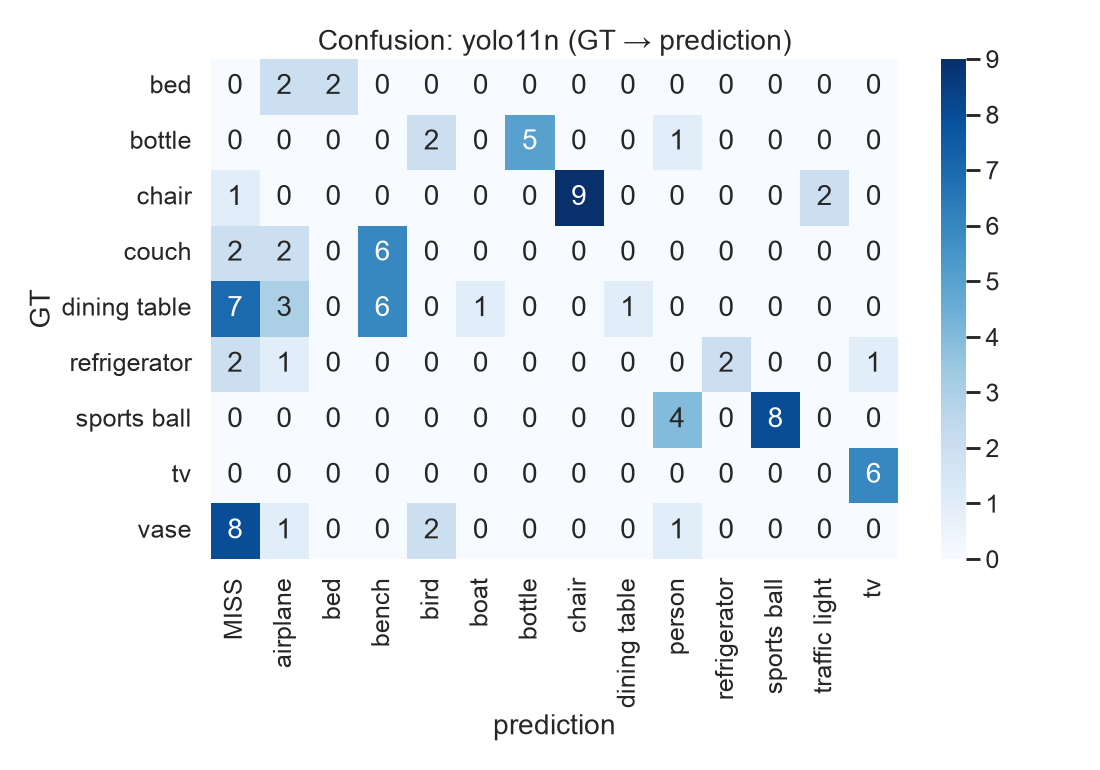
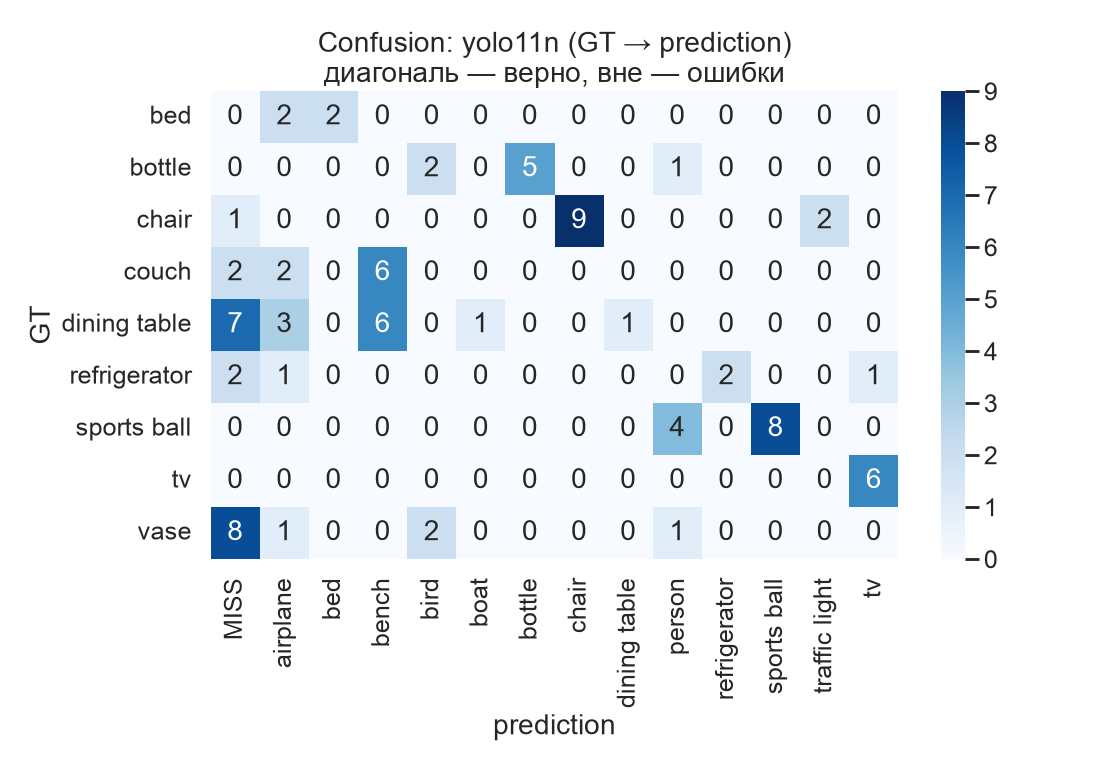
docs: подписать направление метрик на графиках EDA
В заголовки графиков, отчёт, контактные листы и PR-кривые добавлены
пометки «меньше/больше — лучше» и правило чтения confusion.

diff --git a/data/gazebo/exp/eda.py b/data/gazebo/exp/eda.py
@@ -92,6 +92,11 @@ def main():
     report.append("# EDA: Gazebo-бенчмарк YOLO\n")
     report.append(f"Сгенерировано: {datetime.now().isoformat(timespec='seconds')}\n")
     report.append(f"Каталог данных: `{base}`\n")
+    report.append("## Как читать метрики\n")
+    report.append("- **T, RSS, ECE, gap, FP/FN** — меньше лучше.\n")
+    report.append("- **mAP, AP, F1, recall, IoU, confidence TP** — больше лучше.\n")
+    report.append("- **Confusion**: диагональ — верные, вне диагонали — ошибки.\n")
+    report.append("- **Detections by view** — справочно, не метрика качества.\n")
 
     # ---------- 1. Обзор ----------
     report.append("## 1. Обзор данных\n")
@@ -134,11 +139,11 @@ def main():
     agg["fps"] = 1000.0 / agg["T_p50"]
     agg.to_csv(os.path.join(tables, "latency_resources.csv"), index=False)
     report.append(md(agg.round(3)))
-    report.append("")
+    report.append("T — меньше лучше; fps — больше лучше.\n")
 
     fig, ax = plt.subplots(figsize=(10, 5))
     sns.boxplot(data=frames, x="model", y="T_total_ms", ax=ax)
-    ax.set_title("T_total по моделям (48 кадров)")
+    ax.set_title("T_total по моделям (48 кадров)\nменьше — лучше")
     ax.set_xlabel("")
     ax.set_ylabel("T_total, мс")
     fig.tight_layout()
@@ -149,7 +154,7 @@ def main():
     m = agg.melt(id_vars="model", value_vars=["T_p50", "T_p95", "T_p99"],
                  var_name="percentile", value_name="ms")
     sns.barplot(data=m, x="model", y="ms", hue="percentile", ax=ax)
-    ax.set_title("Перцентили задержки")
+    ax.set_title("Перцентили задержки\nменьше — лучше")
     ax.set_xlabel("")
     fig.tight_layout()
     fig.savefig(os.path.join(plots, "latency_percentiles.png"))
@@ -159,7 +164,7 @@ def main():
     parts = agg.melt(id_vars="model", value_vars=["pre", "infer", "post"],
                      var_name="stage", value_name="ms")
     sns.barplot(data=parts, x="model", y="ms", hue="stage", ax=ax)
-    ax.set_title("Среднее время по стадиям")
+    ax.set_title("Среднее время по стадиям\nменьше — лучше")
     ax.set_xlabel("")
     fig.tight_layout()
     fig.savefig(os.path.join(plots, "latency_parts.png"))
@@ -167,7 +172,7 @@ def main():
 
     fig, ax = plt.subplots(figsize=(9, 5))
     sns.scatterplot(data=frames, x="cpu_pct", y="T_total_ms", hue="model", alpha=0.6, ax=ax)
-    ax.set_title("T_total vs загрузка CPU")
+    ax.set_title("T_total vs загрузка CPU\nT — меньше лучше; CPU — справочно")
     fig.tight_layout()
     fig.savefig(os.path.join(plots, "latency_vs_cpu.png"))
     plt.close(fig)
@@ -176,7 +181,7 @@ def main():
                                aggfunc="median", observed=True)
     fig, ax = plt.subplots(figsize=(8, 16))
     sns.heatmap(pivot, cmap="viridis", ax=ax, cbar_kws={"label": "T_total, мс"})
-    ax.set_title("Медиана T_total по ракурсам")
+    ax.set_title("Медиана T_total по ракурсам\nменьше — лучше")
     fig.tight_layout()
     fig.savefig(os.path.join(plots, "latency_by_view.png"))
     plt.close(fig)
@@ -212,13 +217,13 @@ def main():
         qual = pd.DataFrame(quality)
         qual.to_csv(os.path.join(tables, "quality.csv"), index=False)
         report.append(md(qual.round(3)))
-        report.append("")
+        report.append("TP — больше, FP/FN — меньше.\n")
 
         fig, ax = plt.subplots(figsize=(10, 5))
         qm = qual.melt(id_vars="model", value_vars=["tp", "fp", "fn"],
                        var_name="type", value_name="count")
         sns.barplot(data=qm, x="model", y="count", hue="type", ax=ax)
-        ax.set_title("TP / FP / FN при conf 0.05")
+        ax.set_title("TP / FP / FN при conf 0.05\nTP ↑, FP/FN ↓")
         ax.set_xlabel("")
         fig.tight_layout()
         fig.savefig(os.path.join(plots, "quality_tp_fp_fn.png"))
@@ -227,7 +232,7 @@ def main():
         fig, ax = plt.subplots(figsize=(10, 5))
         sns.histplot(data=dets[dets["tp"] == 1], x="conf", hue="model",
                      bins=20, element="step", fill=False, ax=ax)
-        ax.set_title("Уверенность истинных детекций")
+        ax.set_title("Уверенность истинных детекций\nбольше — лучше")
         fig.tight_layout()
         fig.savefig(os.path.join(plots, "confidence_tp.png"))
         plt.close(fig)
@@ -235,7 +240,7 @@ def main():
         fig, ax = plt.subplots(figsize=(10, 5))
         sns.histplot(data=dets, x="best_iou", hue="tp", bins=20,
                      element="step", fill=False, ax=ax)
-        ax.set_title("IoU лучшего GT для детекций")
+        ax.set_title("IoU лучшего GT для детекций\nбольше — лучше")
         fig.tight_layout()
         fig.savefig(os.path.join(plots, "iou_distribution.png"))
         plt.close(fig)
@@ -244,7 +249,7 @@ def main():
                                  aggfunc="count", observed=True, fill_value=0)
         fig, ax = plt.subplots(figsize=(8, 16))
         sns.heatmap(pivot, cmap="magma", ax=ax, cbar_kws={"label": "детекций"})
-        ax.set_title("Число детекций по ракурсам")
+        ax.set_title("Число детекций по ракурсам\nсправочно, больше ≠ лучше")
         fig.tight_layout()
         fig.savefig(os.path.join(plots, "detections_by_view.png"))
         plt.close(fig)
@@ -270,11 +275,11 @@ def main():
         pc.to_csv(os.path.join(tables, "per_class.csv"), index=False)
         report.append("### AP и детекции по классам\n")
         report.append(md(pc.round(3)))
-        report.append("")
+        report.append("AP — больше лучше.\n")
 
         fig, ax = plt.subplots(figsize=(14, 6))
         sns.barplot(data=pc, x="class", y="ap50", hue="model", ax=ax)
-        ax.set_title("AP@0.5 по классам")
+        ax.set_title("AP@0.5 по классам\nбольше — лучше")
         ax.set_xlabel("")
         ax.tick_params(axis="x", rotation=30)
         fig.tight_layout()
@@ -309,7 +314,7 @@ def main():
             best_rows.append({"model": model, "best_conf": df.loc[i, "conf"],
                               "best_f1": df.loc[i, "f1"], "p": df.loc[i, "precision"],
                               "r": df.loc[i, "recall"]})
-        ax.set_title("F1 vs confidence")
+        ax.set_title("F1 vs confidence\nбольше — лучше")
         ax.set_xlabel("confidence")
         ax.set_ylabel("F1")
         ax.legend()
@@ -319,7 +324,7 @@ def main():
         best_f1_df = pd.DataFrame(best_rows).sort_values("best_f1", ascending=False)
         best_f1_df.to_csv(os.path.join(tables, "f1_best.csv"), index=False)
         report.append(md(best_f1_df.round(3)))
-        report.append("")
+        report.append("F1 — больше лучше.\n")
 
     # ---------- 5. Confusion ----------
     conf_files = sorted(glob.glob(os.path.join(base, "confusion_*.json")))
@@ -338,7 +343,7 @@ def main():
         mat.to_csv(os.path.join(tables, f"confusion_{model}.csv"))
         fig, ax = plt.subplots(figsize=(10, 7))
         sns.heatmap(mat, annot=True, fmt="d", cmap="Blues", ax=ax)
-        ax.set_title(f"Confusion: {model} (GT → prediction)")
+        ax.set_title(f"Confusion: {model} (GT → prediction)\nдиагональ — верно, вне — ошибки")
         ax.set_xlabel("prediction")
         ax.set_ylabel("GT")
         fig.tight_layout()
@@ -355,9 +360,10 @@ def main():
         r.to_csv(os.path.join(tables, "rss.csv"), index=False)
         report.append("### Пиковый RSS\n")
         report.append(md(r.round(1)))
+        report.append("RSS — меньше лучше.\n")
         fig, ax = plt.subplots(figsize=(10, 5))
         sns.barplot(data=r, x="model", y="peak_mb", ax=ax)
-        ax.set_title("Пиковый RSS процесса")
+        ax.set_title("Пиковый RSS процесса\nменьше — лучше")
         ax.set_xlabel("")
         ax.set_ylabel("МБ")
         fig.tight_layout()
@@ -367,6 +373,7 @@ def main():
     if ros:
         report.append("### ROS\n")
         report.append(md(pd.DataFrame([ros])))
+        report.append("gap — меньше лучше; rate — больше лучше.\n")
         bag = ros.get("bag", "")
         if bag and not os.path.exists(bag):
             alt = os.path.join(base, "rosbag_det", os.path.basename(bag))
@@ -380,7 +387,7 @@ def main():
                     gaps = np.diff(ts) / 1e6  # ns -> ms
                     fig, ax = plt.subplots(figsize=(9, 5))
                     sns.histplot(gaps, bins=30, ax=ax)
-                    ax.set_title("Интервалы между /detections (bag)")
+                    ax.set_title("Интервалы между /detections (bag)\nменьше — лучше")
                     ax.set_xlabel("мс")
                     fig.tight_layout()
                     fig.savefig(os.path.join(plots, "ros_gaps.png"))

diff --git a/data/gazebo/exp/analyze.py b/data/gazebo/exp/analyze.py
@@ -97,12 +97,15 @@ def sheet(model):
     views = sorted(f[:-4] for f in os.listdir(d) if f.endswith(".png"))
     cols, rows = 8, 6
     tw, th = 320, 240
-    canvas = np.full((rows * (th + 18), cols * tw, 3), 255, np.uint8)
+    canvas = np.full((rows * (th + 18) + 22, cols * tw, 3), 255, np.uint8)
+    cv2.putText(canvas,
+                "зелёный — детекция (класс, %); жёлтый — GT; TP = IoU>=0.5 и класс совпал",
+                (8, 15), cv2.FONT_HERSHEY_SIMPLEX, 0.45, (0, 0, 0), 1, cv2.LINE_AA)
     for i, v in enumerate(views):
         im = cv2.imread(os.path.join(d, v + ".png"))
         im = cv2.resize(im, (tw, th))
         r, c = divmod(i, cols)
-        y0, x0 = r * (th + 18), c * tw
+        y0, x0 = 22 + r * (th + 18), c * tw
         canvas[y0:y0 + th, x0:x0 + tw] = im
         cv2.putText(canvas, v, (x0 + 4, y0 + th + 13),
                     cv2.FONT_HERSHEY_SIMPLEX, 0.42, (0, 0, 0), 1, cv2.LINE_AA)

diff --git a/data/gazebo/exp/benchmark.py b/data/gazebo/exp/benchmark.py
@@ -325,6 +325,8 @@ def main():
             ax.grid(alpha=0.3)
         for ax in list(axes.flat)[len(n_gt_class):]:
             ax.axis("off")
+        fig.suptitle("PR-кривые: ближе к правому верхнему углу — лучше",
+                     fontsize=10, color="#555")
         plt.tight_layout()
         plt.savefig(os.path.join(FRAMES, f"pr_{tag}.png"), dpi=110)
         plt.close(fig)

diff --git a/data/gazebo/exp/eda/REPORT.md b/data/gazebo/exp/eda/REPORT.md
@@ -1,8 +1,18 @@
 # EDA: Gazebo-бенчмарк YOLO
 
-Сгенерировано: 2026-10-19T16:19:51
+Сгенерировано: 2026-10-19T16:39:38
 
 Каталог данных: `data/gazebo/exp`
+
+## Как читать метрики
+
+- **T, RSS, ECE, gap, FP/FN** — меньше лучше.
+
+- **mAP, AP, F1, recall, IoU, confidence TP** — больше лучше.
+
+- **Confusion**: диагональ — верные, вне диагонали — ошибки.
+
+- **Detections by view** — справочно, не метрика качества.
 
 ## 1. Обзор данных
 
@@ -44,6 +54,7 @@
 | yolov10n |       48 |  19.88  |  23.402 |  24.159 |   20.062 |   1.369 | 0.676 |  18.53  |  0.487 | 937.5   | 694.942 | 50.301 |
 | yolov9t  |       48 |  29.288 |  31.328 |  32.687 |   29.355 |   1.203 | 0.745 |  27.677 |  0.571 | 943.7   | 722.817 | 34.144 |
 | yolo11n  |       48 |  20.635 |  24.537 |  25.564 |   20.976 |   1.465 | 0.706 |  19.333 |  0.549 | 943.8   | 699.185 | 48.461 |
+T — меньше лучше; fps — больше лучше.
 
 ### Корреляции с T_total
 
@@ -64,6 +75,7 @@
 | yolov10n |     88 |   19 |   59 |   69 |       0.244 |    0.216 | 0.229 |          0.221 |         0.822 |
 | yolov9t  |     88 |   27 |   77 |   61 |       0.26  |    0.307 | 0.281 |          0.324 |         0.805 |
 | yolo11n  |     88 |   40 |   85 |   48 |       0.32  |    0.455 | 0.376 |          0.404 |         0.776 |
+TP — больше, FP/FN — меньше.
 
 ### AP и детекции по классам
 
@@ -114,6 +126,7 @@
 | yolo11n  | sports ball  |   12 |    12 |   12 |    0 |    0 |  1     |     0.424 |
 | yolo11n  | tv           |    6 |     7 |    6 |    1 |    0 |  0.976 |     0.829 |
 | yolo11n  | vase         |   12 |     0 |    0 |    0 |   12 |  0.139 |     0.056 |
+AP — больше лучше.
 
 ### Худшие кадры по ошибкам
 
@@ -149,6 +162,7 @@
 | yolov9t  |        0.07 |     0.286 | 0.3   | 0.273 |
 | yolov8n  |        0.32 |     0.281 | 0.515 | 0.193 |
 | yolov10n |        0.02 |     0.26  | 0.22  | 0.318 |
+F1 — больше лучше.
 
 ## 5. RSS и ROS
 
@@ -161,11 +175,15 @@
 | yolov10n |     798.2 |      269.2 |
 | yolov9t  |     796.1 |      267.1 |
 | yolo11n  |     797.4 |      268.4 |
+RSS — меньше лучше.
+
 ### ROS
 
 | bag                                         |   messages |   duration_s |   detections_rate_hz |   gap_p50_ms |   gap_max_ms |   camera_rate_hz | note                                                                     |
 |:--------------------------------------------|-----------:|-------------:|---------------------:|-------------:|-------------:|-----------------:|:-------------------------------------------------------------------------|
 | data/gazebo/exp/rosbag_det/rosbag_det_0.db3 |       1579 |        44.94 |                35.12 |         28.4 |         52.9 |           39.809 | bag metadata не финализирована (SIGINT не сработал); БД sqlite корректна |
+gap — меньше лучше; rate — больше лучше.
+
 Интервалы bag: p50=28.4 мс, p95=34.9 мс, max=52.9 мс.
 
 ## 6. Итоговые наблюдения

diff --git a/data/gazebo/exp/README.md b/data/gazebo/exp/README.md
@@ -130,7 +130,10 @@ RAPL в контейнере недоступен (`energy_uj` не читает
 
 `eda.py` собирает телеметрию, бенчмарк, RSS, ROS, confusion и sweep в
 `eda/REPORT.md`, `eda/summary.json`, `eda/tables/*.csv` и
-`eda/plots/*.png` (18 графиков). Зависимости: pandas, seaborn, tabulate.
+`eda/plots/*.png` (18 графиков). На каждом графике подписано
+направление метрики («меньше — лучше» / «больше — лучше»); в confusion
+диагональ — верные ответы. В `REPORT.md` есть раздел «Как читать
+метрики». Зависимости: pandas, seaborn, tabulate.
 
 ```bash
 uv pip install --python .venv-lyrical/bin/python pandas seaborn tabulate
